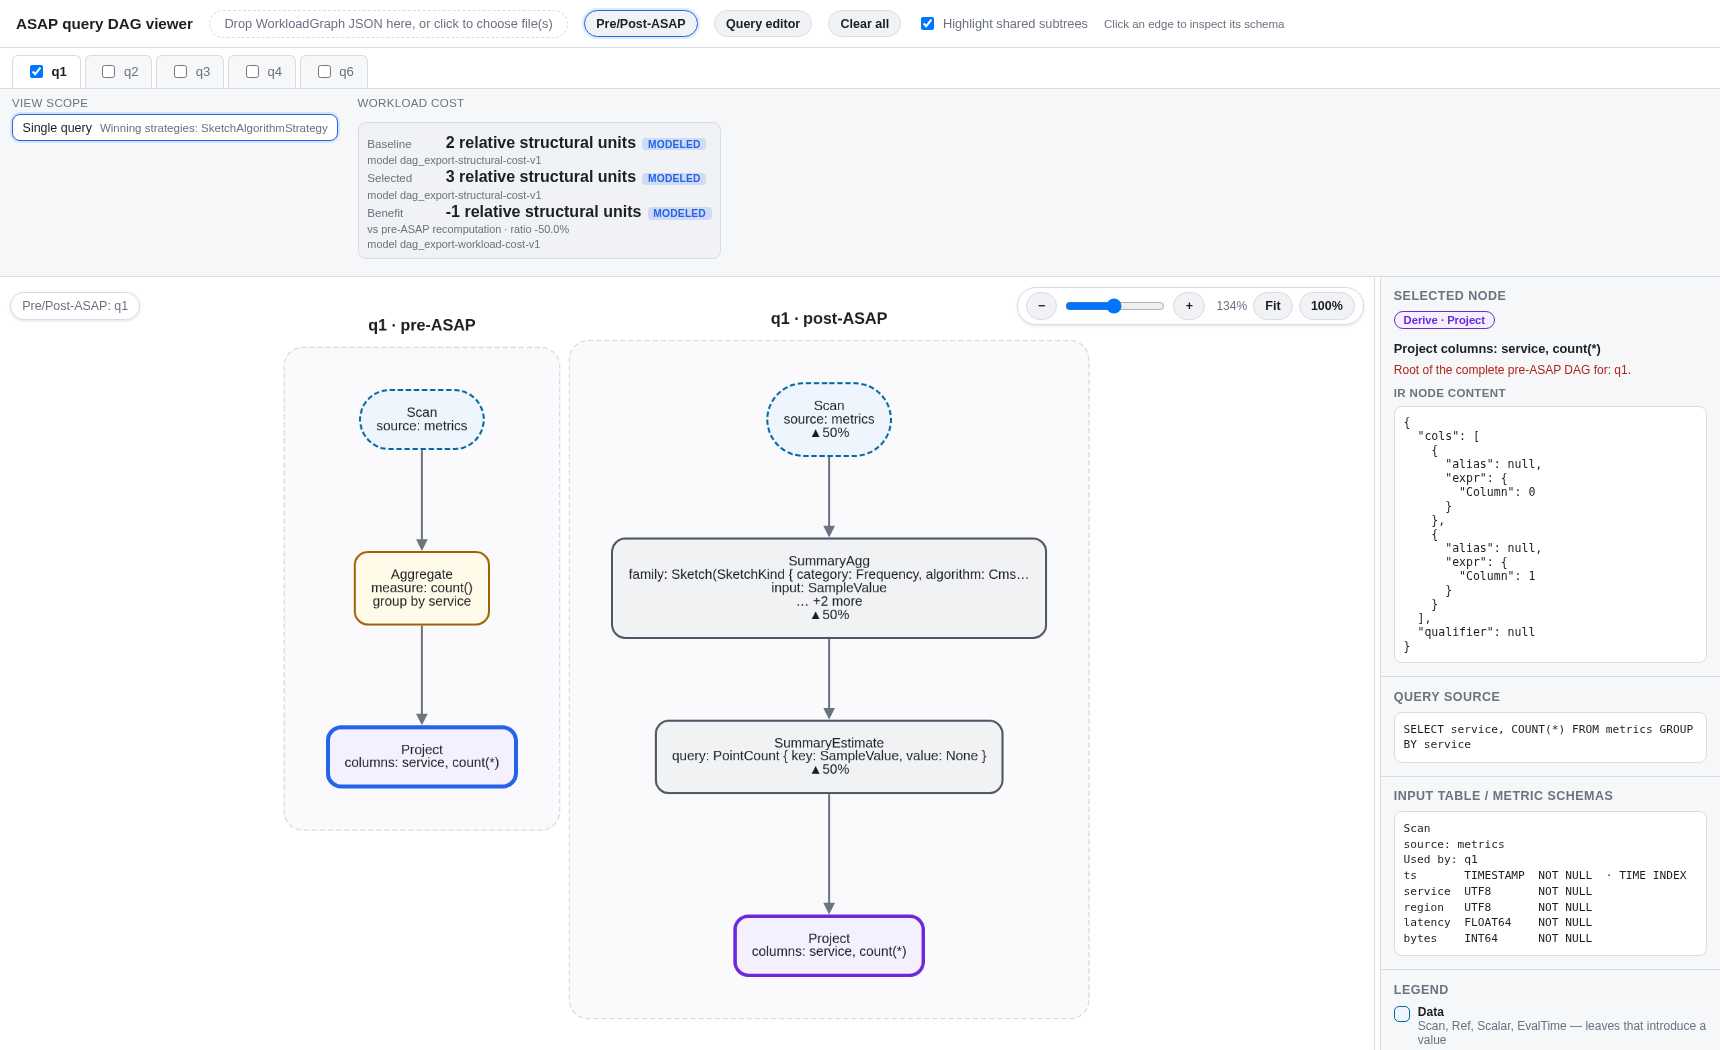
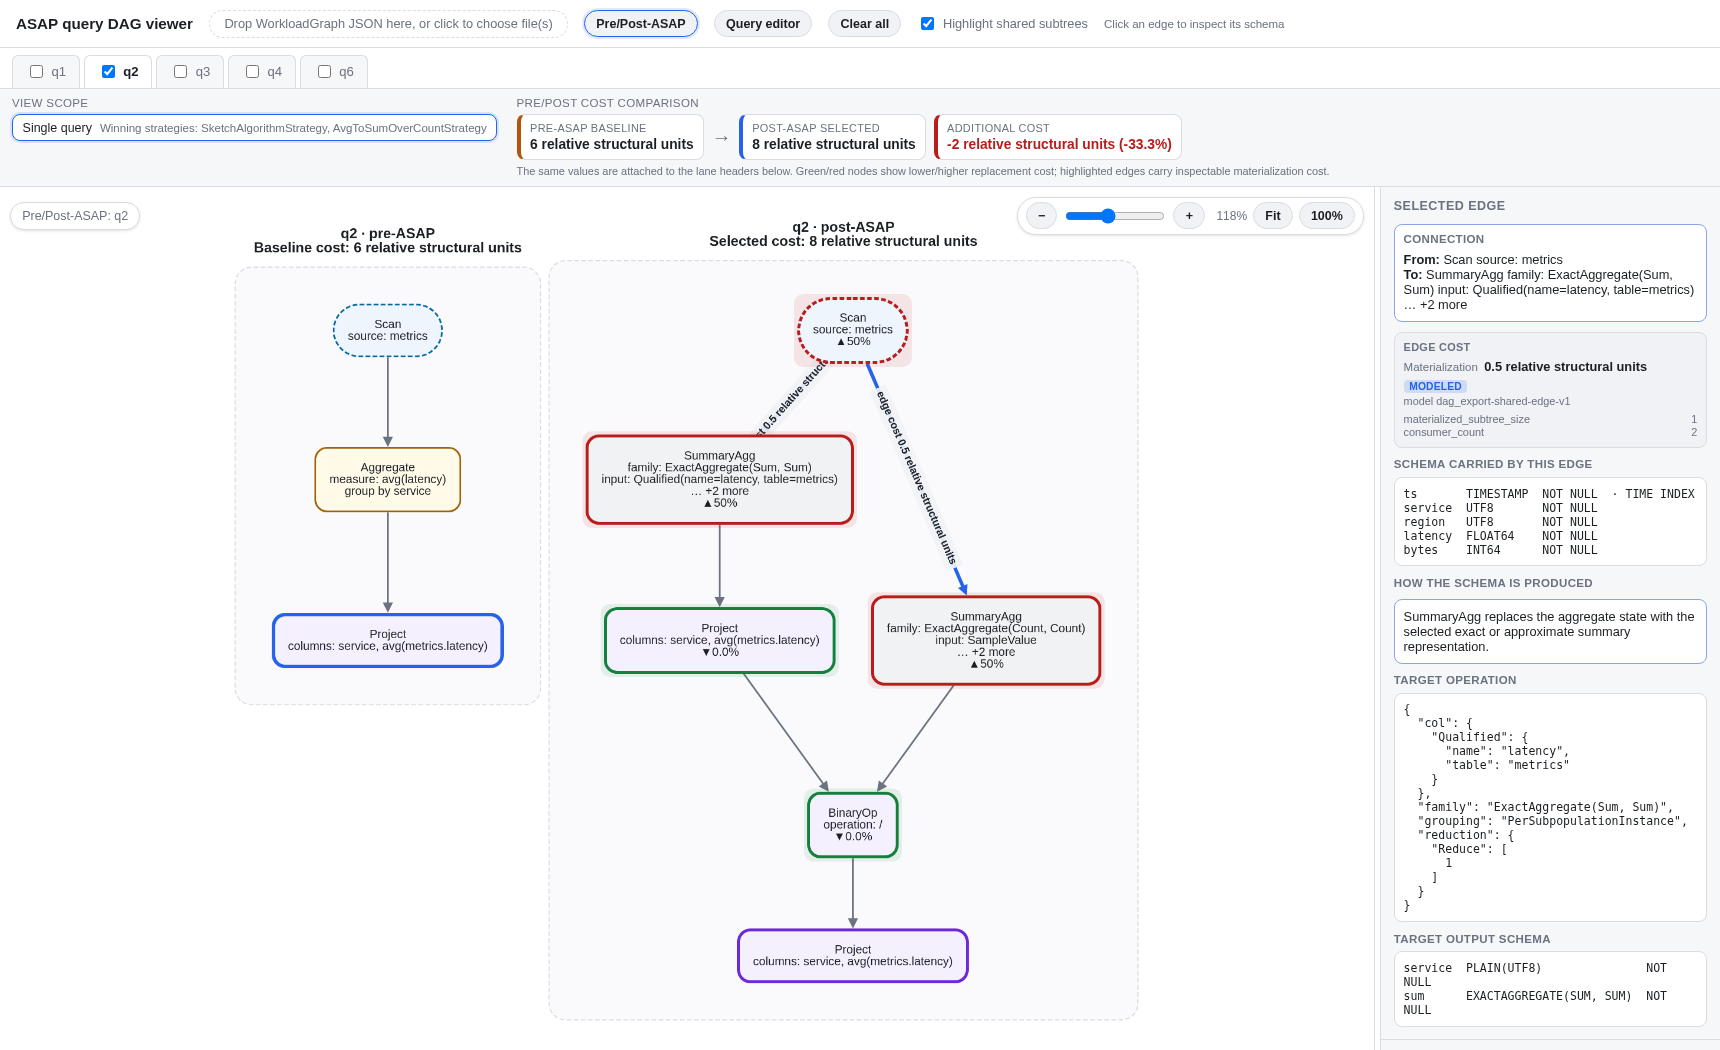
feat(viewer): tie cost comparison to graph elements

diff --git a/tools/dag-viewer/viewer.js b/tools/dag-viewer/viewer.js
@@ -292,6 +292,26 @@ function buildCyStyle() {
       },
     },
     {
+      selector: 'node.costImprovement',
+      style: {
+        'border-color': '#15803d',
+        'border-width': 2.5,
+        'underlay-color': '#15803d',
+        'underlay-opacity': 0.1,
+        'underlay-padding': 4,
+      },
+    },
+    {
+      selector: 'node.costRegression',
+      style: {
+        'border-color': '#b91c1c',
+        'border-width': 2.5,
+        'underlay-color': '#b91c1c',
+        'underlay-opacity': 0.1,
+        'underlay-padding': 4,
+      },
+    },
+    {
       // Pre/Post-ASAP lane container (a compound parent node).
       selector: 'node.laneParent',
       style: {
@@ -332,6 +352,16 @@ function buildCyStyle() {
         'transition-property': 'opacity',
         'transition-duration': '260ms',
         'transition-timing-function': 'ease-in-out',
+      },
+    },
+    {
+      selector: 'edge.costAnnotated',
+      style: {
+        'width': 3,
+        'line-color': ringColor,
+        'target-arrow-color': ringColor,
+        'label': 'data(edgeCostLabel)',
+        'font-weight': 700,
       },
     },
   ];
@@ -448,14 +478,15 @@ function renderPrePostAsap() {
     ? `Pre/Post-ASAP: ${selected[0].name}`
     : `Pre/Post-ASAP workload union: ${selected.length} queries`;
 
+  const costSummary = selected.length === 1 ? selected[0].workload_cost : computeSelectionWorkloadCost(selected);
   const elements = selected.length === 1
     ? [
-        ...laneElements('pre-asap', `${selected[0].name} · pre-ASAP`, selected[0].graph, selected[0], 'pre'),
-        ...laneElements('post-asap', `${selected[0].name} · post-ASAP`, selected[0].post_graph, selected[0], 'post'),
+        ...laneElements('pre-asap', `${selected[0].name} · pre-ASAP`, selected[0].graph, selected[0], 'pre', costSummary && costSummary.baseline_cost),
+        ...laneElements('post-asap', `${selected[0].name} · post-ASAP`, selected[0].post_graph, selected[0], 'post', costSummary && costSummary.selected_cost),
       ]
     : [
-        ...unionStageLaneElements('pre', chosen),
-        ...unionStageLaneElements('post', chosen),
+        ...unionStageLaneElements('pre', chosen, costSummary && costSummary.baseline_cost),
+        ...unionStageLaneElements('post', chosen, costSummary && costSummary.selected_cost),
       ];
 
   buildCy(elements);
@@ -473,7 +504,7 @@ function renderPrePostAsap() {
   fitAndSyncZoom();
 }
 
-function unionStageLaneElements(stage, chosen) {
+function unionStageLaneElements(stage, chosen, laneCost) {
   // Workload merging is an exporter decision. `workload_node_id` is the
   // explicit JSON mapping; do not reconstruct identity from node content.
   const laneId = `${stage}-asap-union`;
@@ -499,7 +530,7 @@ function unionStageLaneElements(stage, chosen) {
   const entries = new Map();
   const edges = new Map();
   const elements = [
-    { data: { id: laneId, label: `${stage === 'pre' ? 'pre-ASAP' : 'post-ASAP'} · workload union`, isLane: true }, classes: 'laneParent', selectable: false, grabbable: false },
+    { data: { id: laneId, label: laneCostLabel(`${stage === 'pre' ? 'pre-ASAP' : 'post-ASAP'} · workload union`, laneCost, stage), isLane: true }, classes: 'laneParent', selectable: false, grabbable: false },
   ];
 
   chosen.forEach((qIdx) => {
@@ -559,12 +590,12 @@ function unionStageLaneElements(stage, chosen) {
 // both shapes carry id/kind/label/detail/children, which is all a lane
 // needs; SummaryDagNode's missing `hash`/`notes` fields are simply never
 // read by this function or by showPrePostDetail below.
-function laneElements(laneId, laneLabel, graph, query, stage) {
+function laneElements(laneId, laneLabel, graph, query, stage, laneCost) {
   const nodes = graph.nodes;
   const byId = new Map(nodes.map((node) => [node.id, node]));
   const edgeCostByPair = new Map((graph.edge_annotations || []).map((edge) => [`${edge.from}${edge.to}`, edge.cost]));
   const elements = [
-    { data: { id: laneId, label: laneLabel, isLane: true }, classes: 'laneParent', selectable: false, grabbable: false },
+    { data: { id: laneId, label: laneCostLabel(laneLabel, laneCost, stage), isLane: true }, classes: 'laneParent', selectable: false, grabbable: false },
   ];
   for (const node of nodes) {
     elements.push({
@@ -591,6 +622,9 @@ function laneElements(laneId, laneLabel, graph, query, stage) {
         lifecycleSummary: query.lifecycle_summary,
         translations: translationsForNode(query, node, stage),
       },
+      classes: node.decision && typeof node.decision.benefit?.value === 'number'
+        ? (node.decision.benefit.value >= 0 ? 'costImprovement' : 'costRegression')
+        : '',
     });
   }
   for (const node of nodes) {
@@ -608,7 +642,11 @@ function laneElements(laneId, laneLabel, graph, query, stage) {
           // (a real DAG merge point); `undefined` otherwise, read by
           // showEdgeDetail.
           edgeCost: edgeCostByPair.get(`${childId}\u0000${node.id}`),
+          edgeCostLabel: edgeCostByPair.has(`${childId}\u0000${node.id}`)
+            ? `edge cost ${compactCost(edgeCostByPair.get(`${childId}\u0000${node.id}`))}`
+            : '',
         },
+        classes: edgeCostByPair.has(`${childId}\u0000${node.id}`) ? 'costAnnotated' : '',
       });
     }
   }
@@ -648,6 +686,16 @@ function formatCostNumber(value) {
   // structural-proxy magnitudes today (see cost.rs's module doc), not
   // precision-sensitive measurements.
   return Number(value.toFixed(3)).toString();
+}
+
+function compactCost(annotation) {
+  if (!annotation || annotation.value === null || annotation.value === undefined) return 'Not estimated';
+  return `${formatCostNumber(annotation.value)} ${formatCostUnit(annotation.unit)}`;
+}
+
+function laneCostLabel(label, annotation, stage) {
+  if (!annotation) return label;
+  return `${label}\n${stage === 'pre' ? 'Baseline' : 'Selected'} cost: ${compactCost(annotation)}`;
 }
 
 // One `<title, CostAnnotation>` block for the sidebar: value + unit +
@@ -856,8 +904,21 @@ function renderScopeSummary(selected) {
   // computeSelectionWorkloadCost's own doc for why this is aggregation, not
   // client-side cost estimation.
   const costSummary = selected.length === 1 ? selected[0].workload_cost : computeSelectionWorkloadCost(selected);
+  const benefitValue = costSummary && costSummary.benefit && costSummary.benefit.value;
+  const outcomeLabel = typeof benefitValue !== 'number'
+    ? 'difference'
+    : benefitValue > 0 ? 'saved' : benefitValue < 0 ? 'additional cost' : 'no change';
   const costHtml = costSummary
-    ? `<div class="scopeGroup"><div class="scopeGroupLabel">Workload cost</div><div class="costBlock">${renderCostAnnotation('Baseline', costSummary.baseline_cost)}${renderCostAnnotation('Selected', costSummary.selected_cost)}${renderCostAnnotation('Benefit', costSummary.benefit)}</div></div>`
+    ? `<div class="scopeGroup costComparisonGroup">
+        <div class="scopeGroupLabel">Pre/post cost comparison</div>
+        <div class="costComparison">
+          <div class="costStage costStage--pre"><span>pre-ASAP baseline</span><strong>${escapeHtml(compactCost(costSummary.baseline_cost))}</strong></div>
+          <div class="costArrow" aria-label="rewritten to">→</div>
+          <div class="costStage costStage--post"><span>post-ASAP selected</span><strong>${escapeHtml(compactCost(costSummary.selected_cost))}</strong></div>
+          <div class="costSaving ${typeof benefitValue === 'number' && benefitValue < 0 ? 'costSaving--regression' : ''}"><span>${escapeHtml(outcomeLabel)}</span><strong>${escapeHtml(compactCost(costSummary.benefit))}${typeof costSummary.benefit?.benefit_ratio === 'number' ? ` (${(costSummary.benefit.benefit_ratio * 100).toFixed(1)}%)` : ''}</strong></div>
+        </div>
+        <div class="costComparisonHint">The same values are attached to the lane headers below. Green/red nodes show lower/higher replacement cost; highlighted edges carry inspectable materialization cost.</div>
+      </div>`
     : '';
   scopePickerEl.innerHTML = `<div class="scopeGroup"><div class="scopeGroupLabel">View scope</div><div class="scopeRow active"><span>${escapeHtml(scope)}</span><span class="scopeMeta">${escapeHtml(strategyText)}</span></div></div>${costHtml}`;
 }

diff --git a/tools/dag-viewer/index.html b/tools/dag-viewer/index.html
@@ -175,6 +175,27 @@
     box-shadow: 0 0 0 2px color-mix(in srgb, var(--accent) 15%, transparent);
   }
   .scopeRow .scopeMeta { color: var(--muted); font-size: 0.72rem; margin-left: auto; white-space: nowrap; }
+  .costComparisonGroup { min-width: min(760px, 100%); }
+  .costComparison { display: flex; align-items: stretch; gap: 0.45rem; flex-wrap: wrap; }
+  .costStage, .costSaving {
+    display: flex;
+    flex-direction: column;
+    justify-content: center;
+    gap: 0.15rem;
+    min-width: 180px;
+    padding: 0.45rem 0.6rem;
+    border: 1px solid var(--border);
+    border-radius: 8px;
+    background: var(--bg);
+  }
+  .costStage span, .costSaving span { color: var(--muted); font-size: 0.68rem; text-transform: uppercase; letter-spacing: .03em; }
+  .costStage strong, .costSaving strong { font-size: 0.86rem; font-variant-numeric: tabular-nums; }
+  .costStage--pre { border-left: 4px solid #b45309; }
+  .costStage--post { border-left: 4px solid var(--accent); }
+  .costArrow { display: flex; align-items: center; color: var(--muted); font-size: 1.25rem; font-weight: 700; }
+  .costSaving { border-left: 4px solid #15803d; color: #15803d; }
+  .costSaving--regression { border-left-color: #b91c1c; color: #b91c1c; }
+  .costComparisonHint { color: var(--muted); font-size: 0.68rem; }
   .proxyNote {
     font-size: 0.72rem;
     color: var(--muted);
